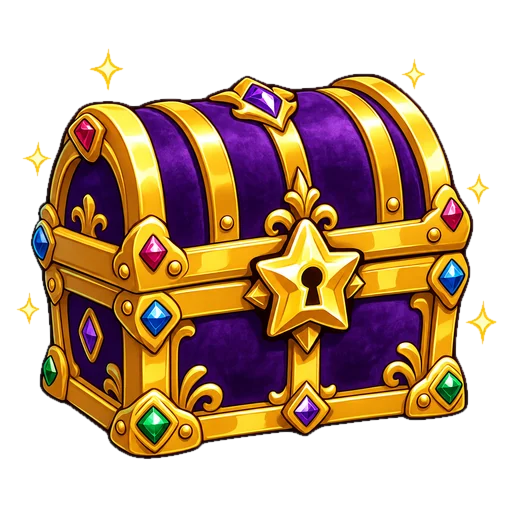
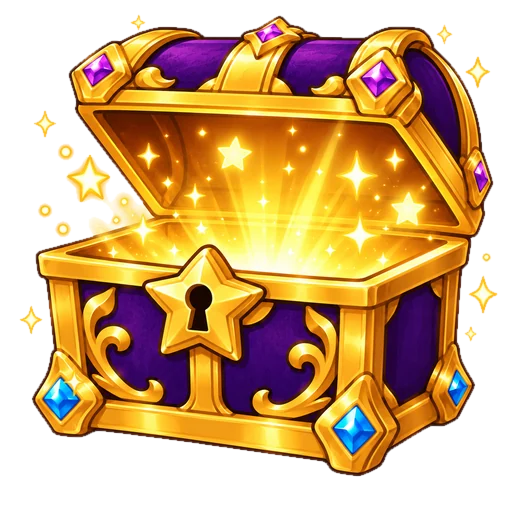
Offene Super-Kiste und gemalter Fruchtkorb
Claude-Session: https://claude.ai/code/session_015XjfkeajiN5RKiShmUNezN

diff --git a/src/expeditions.css b/src/expeditions.css
@@ -45,10 +45,11 @@
 .log-loot img { width: 18px; height: 18px; }
 .log-loot .super { color: var(--accent); margin-right: 2px; }
 .log-who { opacity: .6; white-space: nowrap; }
-.basket { display: flex; align-items: center; gap: 4px; padding: 8px 10px; border: 3px solid var(--ink); border-radius: 18px; background: var(--paper); }
-.basket .f { display: flex; align-items: center; gap: 1px; font-size: 14px; font-weight: 800; }
-.basket .f img { width: 30px; height: 30px; }
-.basket .btn { margin-left: auto; background: var(--sun); }
+.basket { position: relative; display: flex; align-items: center; gap: 4px; aspect-ratio: 892 / 200; padding: 0 34% 2% 6%; background: url(/expedition/korb.webp) center / 100% 100% no-repeat; }
+.basket .f { position: relative; flex: 1; display: flex; justify-content: center; }
+.basket .f img { width: 36px; height: 36px; filter: drop-shadow(1px 2px 0 rgba(0, 0, 0, .3)); }
+.basket .f span { position: absolute; right: 0; bottom: -2px; min-width: 20px; padding: 0 4px; border: 2px solid var(--ink); border-radius: 99px; background: var(--paper); font-size: 11px; font-weight: 800; text-align: center; }
+.basket .btn { position: absolute; right: 6%; top: 50%; translate: 0 -50%; background: var(--sun); }
 
 /* Gesperrtes Gebiet: Blatt von unten */
 .sheet-wrap { position: fixed; inset: 0; z-index: 30; display: flex; align-items: flex-end; justify-content: center; background: rgba(27, 21, 48, .45); }

diff --git a/src/Expeditions.tsx b/src/Expeditions.tsx
@@ -110,7 +110,7 @@ export function Expeditions({ snap, monsters, now, onBack, onStart, onRecall, on
         {FRUIT_ORDER.map((f) => (
           <span key={f} className="f">
             <img src={fruitImg(f)} alt={FRUITS[f].name} />
-            {Math.max(0, fruits[f])}
+            <span>{Math.max(0, fruits[f])}</span>
           </span>
         ))}
         <button className="btn" onClick={() => setFeeding(true)}>
